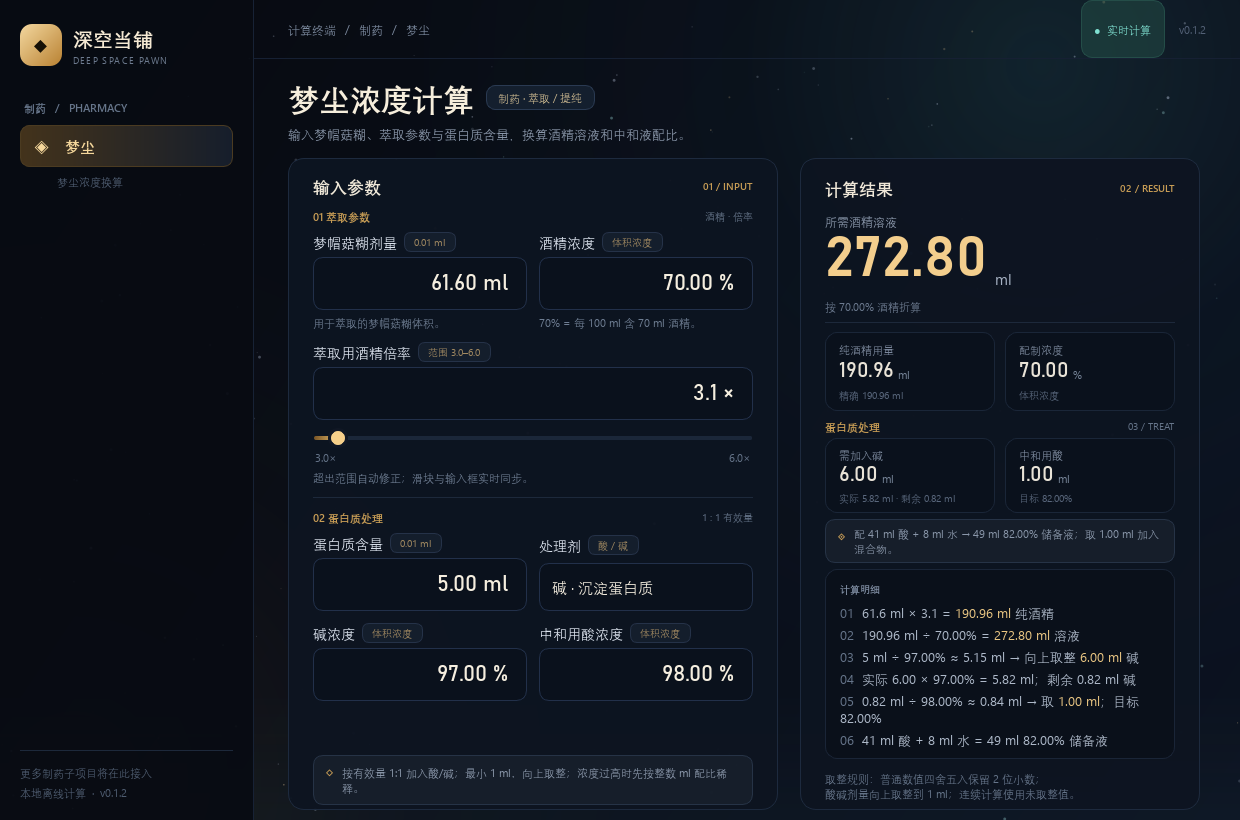
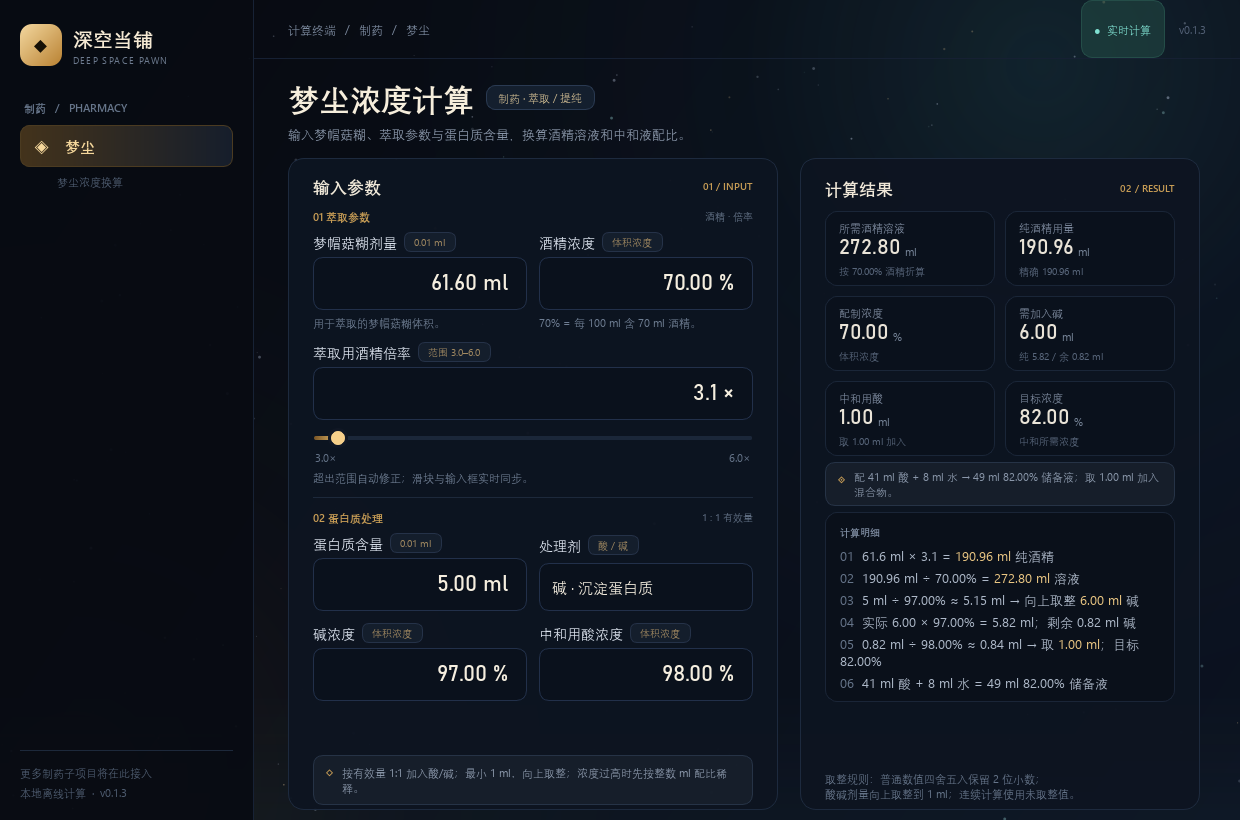
第三次提交；v0.1.3

Changed region(s): [[0.6742, 0.3659, 0.9194, 0.9146], [0.6742, 0.2439, 0.7968, 0.3354], [0.8274, 0.2744, 0.8887, 0.3354]]

diff --git a/app/pages/dream_dust.py b/app/pages/dream_dust.py
@@ -13,6 +13,7 @@ from PySide6.QtWidgets import (
     QComboBox,
     QDoubleSpinBox,
     QFrame,
+    QGridLayout,
     QHBoxLayout,
     QLabel,
     QScrollArea,
@@ -440,83 +441,48 @@ class DreamDustPage(QWidget):
         box.setSpacing(0)
 
         box.addWidget(self._card_header("计算结果", "02 / RESULT"))
-        box.addSpacing(14)
+        box.addSpacing(12)
 
-        caption = QLabel("所需酒精溶液")
-        caption.setObjectName("ResultCaption")
-        box.addWidget(caption)
-        box.addSpacing(3)
+        grid = QGridLayout()
+        grid.setContentsMargins(0, 0, 0, 0)
+        grid.setHorizontalSpacing(10)
+        grid.setVerticalSpacing(10)
 
-        value_row = QHBoxLayout()
-        value_row.setContentsMargins(0, 0, 0, 0)
-        value_row.setSpacing(8)
-
-        self.result_value = QLabel("0.00")
-        self.result_value.setObjectName("ResultValue")
-        self.result_value.setTextInteractionFlags(
-            Qt.TextInteractionFlag.TextSelectableByMouse
+        solution_box, self.solution_caption, self.solution_value, self.solution_sub = (
+            self._result_stat("所需酒精溶液", "ml", "按 70.00% 酒精折算")
         )
-        value_row.addWidget(self.result_value, 0, Qt.AlignmentFlag.AlignBottom)
+        # 保留旧属性名，方便测试和后续模块引用。
+        self.result_value = self.solution_value
+        self.result_hint = self.solution_sub
 
-        unit = QLabel("ml")
-        unit.setObjectName("ResultUnit")
-        unit.setContentsMargins(0, 0, 0, 10)
-        value_row.addWidget(unit, 0, Qt.AlignmentFlag.AlignBottom)
-        value_row.addStretch(1)
-        box.addLayout(value_row)
-
-        self.result_hint = QLabel("按 70.00% 酒精折算")
-        self.result_hint.setObjectName("ResultHint")
-        box.addWidget(self.result_hint)
-
-        box.addSpacing(8)
-        divider = QFrame()
-        divider.setObjectName("Divider")
-        box.addWidget(divider)
-        box.addSpacing(9)
-
-        stats = QHBoxLayout()
-        stats.setContentsMargins(0, 0, 0, 0)
-        stats.setSpacing(10)
-
-        pure_box, self.pure_value = self._stat_box("纯酒精用量", "ml")
-        self.pure_sub = QLabel("精确 0 ml")
-        self.pure_sub.setObjectName("StatSub")
-        pure_layout = pure_box.layout()
-        if pure_layout is not None:
-            pure_layout.addWidget(self.pure_sub)
-
-        conc_box, self.conc_value = self._stat_box("配制浓度", "%")
-        conc_sub = QLabel("体积浓度")
-        conc_sub.setObjectName("StatSub")
-        conc_layout = conc_box.layout()
-        if conc_layout is not None:
-            conc_layout.addWidget(conc_sub)
-
-        stats.addWidget(pure_box, 1)
-        stats.addWidget(conc_box, 1)
-        box.addLayout(stats)
-
-        box.addSpacing(8)
-        box.addWidget(self._section_title("蛋白质处理", "03 / TREAT"))
-
-        protein_stats = QHBoxLayout()
-        protein_stats.setContentsMargins(0, 4, 0, 0)
-        protein_stats.setSpacing(10)
-
+        pure_box, _, self.pure_value, self.pure_sub = self._result_stat(
+            "纯酒精用量", "ml", "精确 0.00 ml"
+        )
+        conc_box, _, self.conc_value, self.conc_sub = self._result_stat(
+            "配制浓度", "%", "体积浓度"
+        )
         agent_box, self.agent_caption, self.agent_value, self.agent_sub = (
-            self._result_stat("需加入碱", "ml", "实际 0.00 ml")
+            self._result_stat("需加入碱", "ml", "实际 0.00 ml · 剩余 0.00 ml")
         )
         (
             neutralizer_box,
             self.neutralizer_caption,
             self.neutralizer_value,
             self.neutralizer_sub,
-        ) = self._result_stat("中和用酸", "ml", "目标 0.00%")
+        ) = self._result_stat("中和用酸", "ml", "取 0.00 ml 加入")
+        target_box, _, self.target_value, self.target_sub = self._result_stat(
+            "目标浓度", "%", "中和所需浓度"
+        )
 
-        protein_stats.addWidget(agent_box, 1)
-        protein_stats.addWidget(neutralizer_box, 1)
-        box.addLayout(protein_stats)
+        grid.addWidget(solution_box, 0, 0)
+        grid.addWidget(pure_box, 0, 1)
+        grid.addWidget(conc_box, 1, 0)
+        grid.addWidget(agent_box, 1, 1)
+        grid.addWidget(neutralizer_box, 2, 0)
+        grid.addWidget(target_box, 2, 1)
+        grid.setColumnStretch(0, 1)
+        grid.setColumnStretch(1, 1)
+        box.addLayout(grid)
 
         box.addSpacing(6)
         recipe_note, self.recipe_label = self._note(
@@ -559,36 +525,6 @@ class DreamDustPage(QWidget):
         footnote.setWordWrap(True)
         box.addWidget(footnote)
         return card
-
-    def _stat_box(self, label_text: str, unit_text: str) -> tuple[QFrame, QLabel]:
-        frame = QFrame()
-        frame.setObjectName("InnerBox")
-        box = QVBoxLayout(frame)
-        box.setContentsMargins(13, 9, 13, 8)
-        box.setSpacing(3)
-
-        label = QLabel(label_text)
-        label.setObjectName("StatLabel")
-        box.addWidget(label)
-
-        value_row = QHBoxLayout()
-        value_row.setContentsMargins(0, 0, 0, 0)
-        value_row.setSpacing(4)
-
-        value = QLabel("0.00")
-        value.setObjectName("StatValue")
-        value.setTextInteractionFlags(
-            Qt.TextInteractionFlag.TextSelectableByMouse
-        )
-        value_row.addWidget(value, 0, Qt.AlignmentFlag.AlignBottom)
-
-        unit = QLabel(unit_text)
-        unit.setObjectName("StatUnit")
-        unit.setContentsMargins(0, 0, 0, 3)
-        value_row.addWidget(unit, 0, Qt.AlignmentFlag.AlignBottom)
-        value_row.addStretch(1)
-        box.addLayout(value_row)
-        return frame, value
 
     def _result_stat(
         self, caption_text: str, unit_text: str, sub_text: str
@@ -767,8 +703,10 @@ class DreamDustPage(QWidget):
         self.conc_value.setText("—")
         self.agent_value.setText("—")
         self.neutralizer_value.setText("—")
+        self.target_value.setText("—")
         self.agent_sub.setText("请检查输入")
         self.neutralizer_sub.setText("请检查输入")
+        self.target_sub.setText("请检查输入")
         self.recipe_label.setText("请检查输入参数。")
         self.formula_label.setText(
             '<span style="color:#D98B7A;">请检查输入参数。</span>'
@@ -783,20 +721,24 @@ class DreamDustPage(QWidget):
         if treatment.protein_ml == 0:
             self.agent_value.setText("—")
             self.neutralizer_value.setText("—")
+            self.target_value.setText("—")
             self.agent_sub.setText("无需处理")
             self.neutralizer_sub.setText("无需中和")
+            self.target_sub.setText("无需中和")
             self.recipe_label.setText("蛋白质为 0，跳过酸碱处理。")
             return
 
         self.agent_value.setText(f"{treatment.agent_dose_ml:.2f}")
         self.agent_sub.setText(
-            f"实际 {treatment.agent_pure_ml:.2f} ml · "
-            f"剩余 {treatment.residual_ml:.2f} ml"
+            f"纯 {treatment.agent_pure_ml:.2f} / "
+            f"余 {treatment.residual_ml:.2f} ml"
         )
 
         if treatment.residual_ml == 0:
             self.neutralizer_value.setText("—")
+            self.target_value.setText("—")
             self.neutralizer_sub.setText("无需中和")
+            self.target_sub.setText("无需中和")
             self.recipe_label.setText(
                 f"{agent_name}刚好完全反应，无剩余，无需中和。"
             )
@@ -806,8 +748,10 @@ class DreamDustPage(QWidget):
             f"{treatment.neutralizer_dose_ml:.2f}"
         )
         self.neutralizer_sub.setText(
-            f"目标 {treatment.target_percent:.2f}%"
+            f"取 {treatment.neutralizer_dose_ml:.2f} ml 加入"
         )
+        self.target_value.setText(f"{treatment.target_percent:.2f}")
+        self.target_sub.setText("中和所需浓度")
 
         if treatment.diluted:
             self.recipe_label.setText(

diff --git a/tests/test_ui.py b/tests/test_ui.py
@@ -40,6 +40,8 @@ class DreamDustPageTests(unittest.TestCase):
         self.assertEqual(self.page.agent_value.text(), "6.00")
         self.assertEqual(self.page.neutralizer_caption.text(), "中和用酸")
         self.assertEqual(self.page.neutralizer_value.text(), "1.00")
+        self.assertEqual(self.page.target_value.text(), "82.00")
+        self.assertEqual(self.page.target_sub.text(), "中和所需浓度")
         self.assertIn("41 ml 酸 + 8 ml 水", self.page.recipe_label.text())
         self.assertIn("49 ml 82.00%", self.page.recipe_label.text())
         self.assertIn("取 1.00 ml", self.page.recipe_label.text())

diff --git a/app/__init__.py b/app/__init__.py
@@ -1,3 +1,3 @@
 """深空当铺 · 便携计算终端。"""
 
-__version__ = "0.1.2"
+__version__ = "0.1.3"

diff --git a/README.md b/README.md
@@ -6,7 +6,7 @@
 
 本仓库的提交说明统一写成“第 N 次提交；vX.Y.Z”。每次有更新，同步递增提交次数并更新版本号。
 
-当前：`第二次提交；v0.1.2`。
+当前：`第三次提交；v0.1.3`。
 
 ![界面预览](preview/main.png)
 
@@ -60,14 +60,15 @@
 - 用酸中和，目标浓度 `0.82 ÷ 1 = 82%`。
 - 98% 酸稀释到 82%：`41 ml 酸 + 8 ml 水 = 49 ml`，取 `1 ml` 加入混合物。
 
-结果区同时给出：
+结果区采用统一的六块模块卡，不再使用单一大数字：
 
 - 所需酒精溶液体积（ml）
 - 纯酒精用量（ml）与未取整的精确值
 - 配制浓度（%）
-- 需加入的酸/碱体积、中和用酸/碱体积
-- 稀释配比与整数取用量
-- 计算明细
+- 需加入的酸/碱体积与剩余量
+- 中和用酸/碱体积
+- 中和目标浓度（%）
+- 下方另附稀释配比、整数取用量与计算明细
 
 ## 取整口径
 
